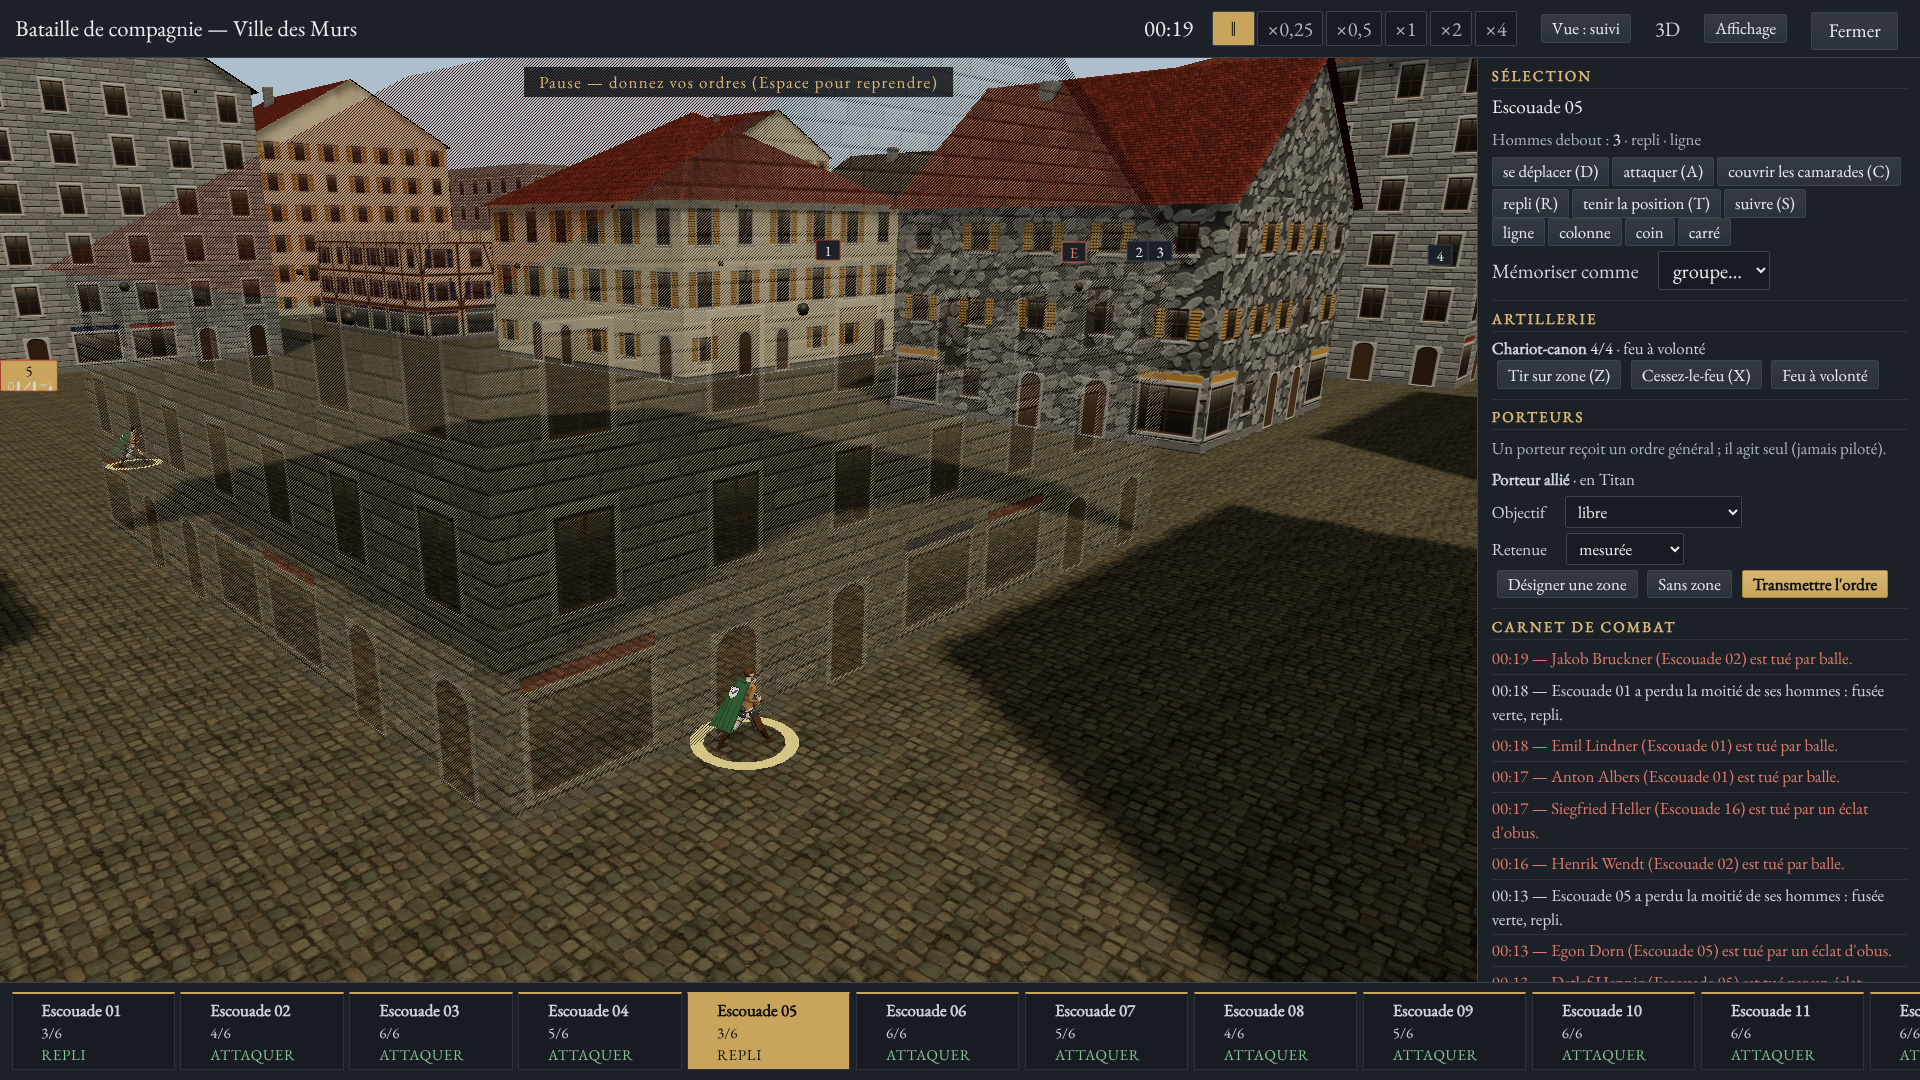
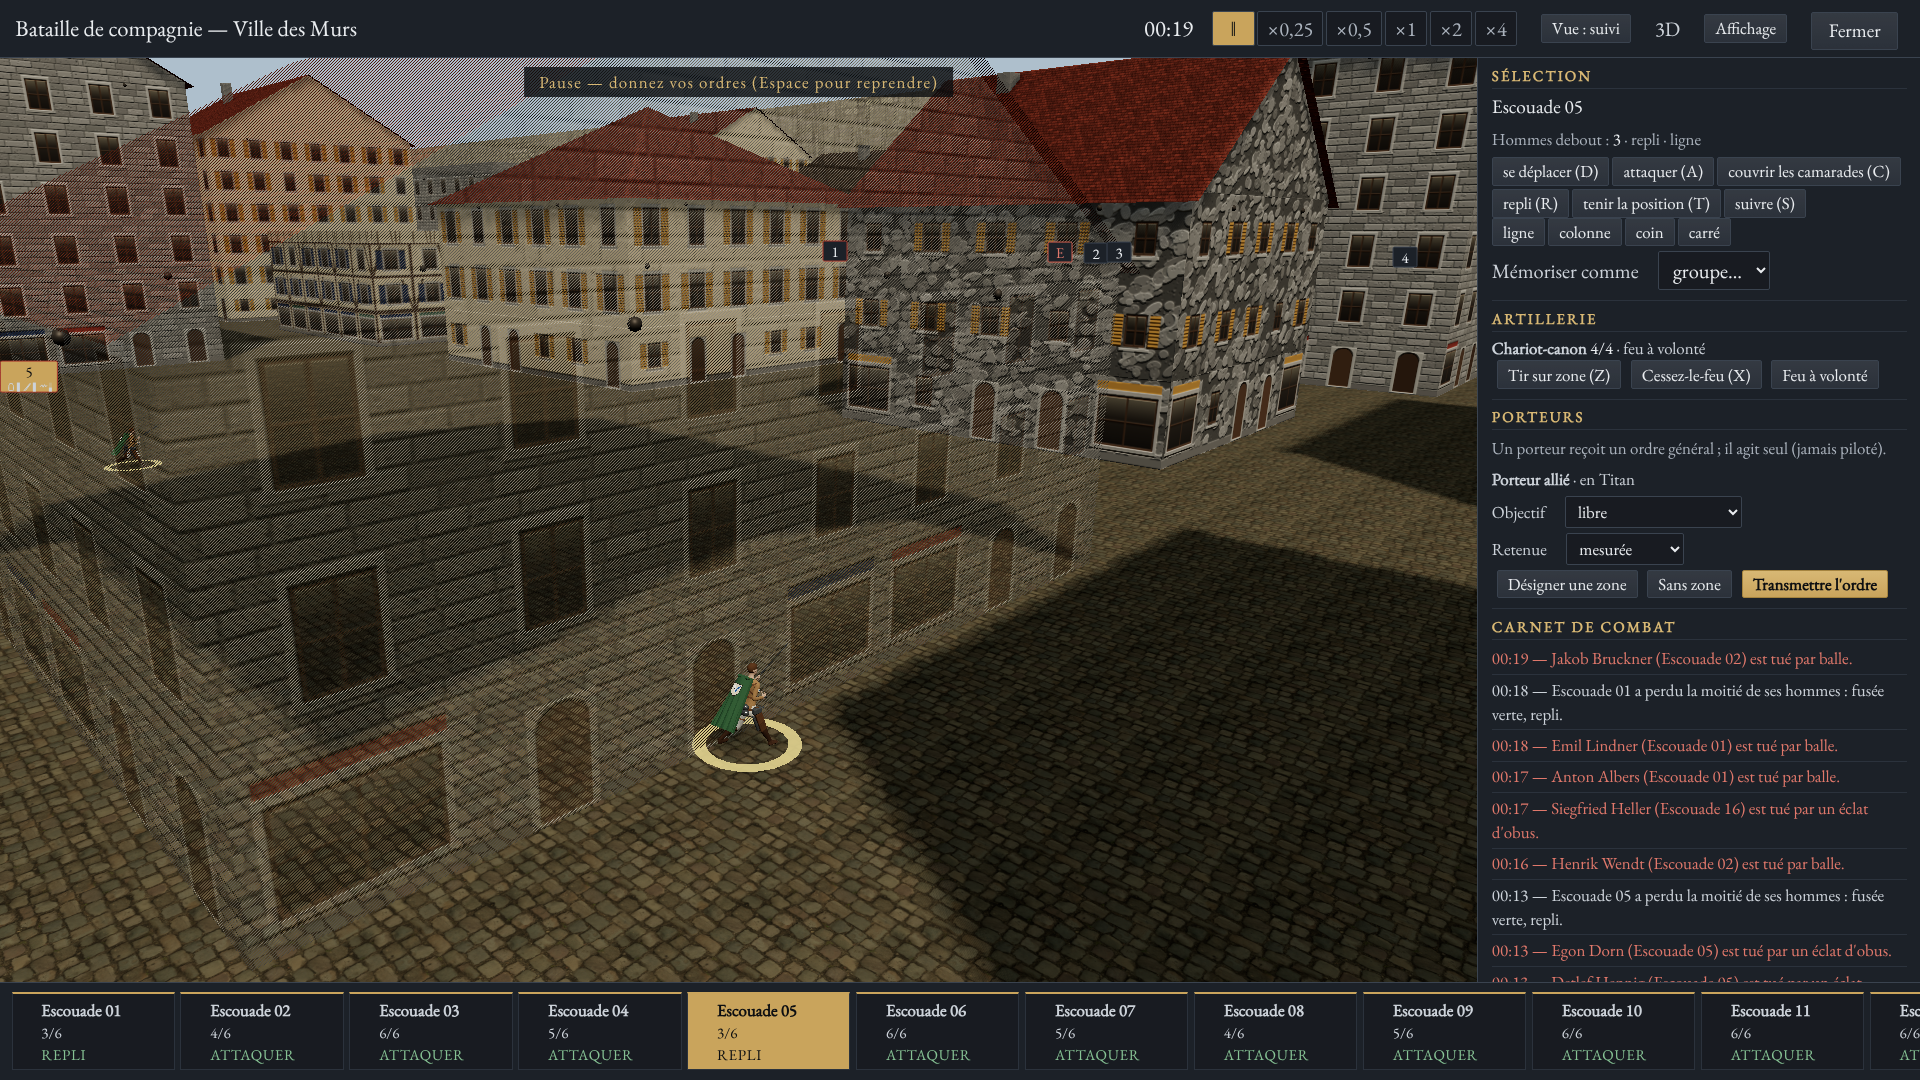
Dette n° 55 (décor) : mur d'enceinte en toile de fond de la ville de bataille (D-168)
- Carte « ville » (profil E02, district adossé au Mur Rose) : pan de mur de 50 m
  au nord, 60 m au-delà du bord de la carte, parement de R1e ; rendu seul.
- Test : hauteur, position hors de la zone de combat, aucune emprise ajoutée ;
  absent en plaine. Captures r2 mises à jour.

npm run verify : code 0 (119 fichiers, 768 tests) ; smoke:r2 conforme.

Claude-Session: https://claude.ai/code/session_01QkVHPRrYAvmotTxhToJVAL

Changed region(s): [[0.0, 0.0306, 0.7812, 0.9167]]

diff --git a/src/render/tactical3d/battle/world.ts b/src/render/tactical3d/battle/world.ts
@@ -9,6 +9,9 @@ import { facadeColor, profile as styleProfile, roofColor } from "../styles";
 import type { RoofMaterial, StyleProfile, WallMaterial } from "../styles";
 import { pickWeighted, roofShape } from "../styling";
 import type { FaceBuilder } from "../townMesh";
+import { straightWall, translatePaths, wallLayout } from "../envWall";
+import { buildWallMeshes } from "../meshWall";
+import type { ParementTextures } from "../parement";
 
 /**
  * Décor de la bataille 3D (R2+), DÉRIVÉ de la carte de la simulation (jamais l'inverse) : chaque structure (bâtiment,
@@ -25,7 +28,13 @@ export interface BattleDecorTextures {
   facade(m: WallMaterial): { upper: Texture; upperLit: Texture; ground: Texture; groundLit: Texture; plain: Texture };
   roof(c: RoofMaterial): Texture;
   normal(t: Texture | null, strength: number): Texture | null;
+  /** Mur de fond : pierre et parement sans motif répété (R1e). */
+  wallStone?(): Texture;
+  parement?(): ParementTextures;
 }
+
+/** Recul du mur de fond derrière le bord nord de la carte (m, A) : hors de la zone de combat. */
+export const BACKDROP_WALL_GAP = 60;
 
 /**
  * Profil de style du décor selon la carte (A) : ville et mur → district planifié du mur Rose (E02) ; plaine → village
@@ -280,6 +289,22 @@ export function buildBattleWorld(m: TacticalWorldMap, seed: number, opts: { grou
       mesh.geometry.setAttribute("batiment", new BufferAttribute(ids, 1));
     }
   }
+  // Dette n° 55 (décor) : mur d'enceinte en toile de fond quand le profil le montre (E02 : district adossé au Mur Rose, 50 m,
+  // C) ; pan droit au nord de la carte, extérieur au nord, hors de la zone de combat : la simulation ne le connaît pas.
+  let backdrop: { dispose(): void } | null = null;
+  if (terrain === "ville" && style.mur_visible.visible) {
+    const layout = wallLayout(translatePaths([straightWall(m.width / 2 + 700, -BACKDROP_WALL_GAP, -1, [])], m.width / 2, 0));
+    const wm = buildWallMeshes(layout, () => 0, tx?.wallStone?.() ?? null, seed, tx?.parement?.() ?? null);
+    const g = new Group();
+    g.name = "mur-de-fond";
+    for (const x of wm.meshes) {
+      x.castShadow = true;
+      x.receiveShadow = true;
+      g.add(x);
+    }
+    group.add(g);
+    backdrop = wm;
+  }
   // Mur (et autres boîtes de maçonnerie) : parement de pierre.
   for (const s of by("mur")) {
     const wall = new Mesh(new BoxGeometry(s.w, s.h, s.d).translate(s.x + s.w / 2, s.h / 2, s.y + s.d / 2), stoneMat);
@@ -352,6 +377,7 @@ export function buildBattleWorld(m: TacticalWorldMap, seed: number, opts: { grou
       return [...caches.value].filter((v) => v > 0).map((v) => v - 1);
     },
     dispose(): void {
+      backdrop?.dispose();
       group.traverse((o) => {
         const g = (o as Mesh).geometry as BufferGeometry | undefined;
         g?.dispose();

diff --git a/tests/render/tactical3d/battle3d.test.ts b/tests/render/tactical3d/battle3d.test.ts
@@ -103,6 +103,25 @@ describe("décor 3D habillé par les profils de style (dette n° 74)", () => {
     w.dispose();
   });
 
+  it("ville (E02, district adossé au mur) : mur de 50 m en toile de fond, au nord, hors de la zone de combat ; pas en plaine", () => {
+    const b = battleOn("tmap_ville");
+    const w = buildBattleWorld(b.map, 11);
+    const wall = partsNamed(w, "mur-de-fond")[0];
+    expect(wall).toBeDefined();
+    const bb = objectBox(wall as NonNullable<typeof wall>);
+    expect(bb.h).toBeGreaterThanOrEqual(50);
+    expect(bb.h).toBeLessThan(54);
+    expect(bb.y1).toBeLessThan(0);
+    expect(bb.x0).toBeLessThan(0);
+    expect(bb.x1).toBeGreaterThan(b.map.width);
+    // La simulation ne le connaît pas : une emprise par structure de la carte, rien de plus.
+    expect(w.footprints.length).toBe(b.map.structures.length);
+    w.dispose();
+    const p = buildBattleWorld(battleOn("tmap_plaine").map, 11);
+    expect(partsNamed(p, "mur-de-fond")).toHaveLength(0);
+    p.dispose();
+  });
+
   it("profils par carte : plaine → village agricole, forêt → bois (ou repli), mur → district", () => {
     expect(buildBattleWorld(battleOn("tmap_mur").map, 11).profile.id).toBe("E02");
     expect(["E11", "E02"]).toContain(buildBattleWorld(battleOn("tmap_plaine").map, 11).profile.id);

diff --git a/src/render/tactical3d/battle/view3d.ts b/src/render/tactical3d/battle/view3d.ts
@@ -43,7 +43,8 @@ import type { Titan, TitanPose } from "../titan";
 import { PHOTO_MATIERES, photoUrl } from "../photoTextures";
 import { battleProfile, buildBattleWorld, occludersFor } from "./world";
 import type { BattleDecorTextures, BattleWorld } from "./world";
-import { facadeSet, normalOf, roofTex } from "../texturesEnv";
+import { facadeSet, normalOf, roofTex, wallStoneTex } from "../texturesEnv";
+import { parementTextures } from "../parement";
 import type { RoofMaterial, WallMaterial } from "../styles";
 import { LOD, SIDE_COLORS, UNIFORM_COLORS, cannonGeometry, markerGeometry, tierOf, troopGeometry } from "./units";
 import { FigureDirector, SOLDIER_POSE, TITAN_POSE, TROOP_POSE } from "./figureState";
@@ -271,6 +272,12 @@ export class View3D implements BattleView {
         if (this.opts.quality === "bas") return null;
         const n = normalOf(t, k);
         return n ? keep(n) : null;
+      },
+      wallStone: () => keep(wallStoneTex(this.seed)),
+      parement: () => {
+        const p = parementTextures(this.seed);
+        for (const t of [p.A, p.B, p.C]) keep(t);
+        return p;
       },
     };
     this.world = buildBattleWorld(m, this.seed, { profile: style, textures, night: this.night });

diff --git a/docs/reports/dette.md b/docs/reports/dette.md
@@ -64,7 +64,7 @@ Format : **quoi** — où — gravité (faible / moyenne / forte). Tag `LC-repor
 | 52 | R2+ : la bataille du smoke dépend du rythme des images (les ordres partent au pas où l'interface les donne ; le rejeu par journal reste exact) : issue variable d'un passage à l'autre. `smoke:r2` : le tir sur zone visait un Titan précis, KO aux essais 3 et 5 (Titan hors de l'écran ou abattu) ; contrôle corrigé (Titan ennemi debout, sinon le sol au centre de la vue) | `src/tools/smoke-r2.ts` | faible | R2+ |
 | 53 | R2+ : la simulation tactique (P4) ne fait pas buter les hommes à pied, les fantassins ni les Titans contre les bâtiments (seuls les atterrissages lisent `groundAt`) : en 3D, des hommes disparaissent dans les maisons. La caméra de suivi préfère un homme visible. Corriger le déplacement change les empreintes des batailles existantes (décision à prendre, avec ancienne et nouvelle valeur). **Corrigé en temps réel (D-146)** : marche et places hors des bâtiments, pas de tir à travers ; les batailles P4 restent telles quelles (empreintes inchangées) ; reste la dette n° 60 | `src/sim/tactical/battle.ts`, `troops.ts`, `map.ts` | moyenne | R2+ (en partie corrigée, D-146) |
 | 54 | R2+ (revue) : les Titans de la bataille de compagnie sont déployés au contact des sections ennemies : déroutes dès 00:05 (`r2-suivi-1920`) | `src/sim/tactical/setup.ts`, `src/sim/tactical/battle.ts` (déploiement) | faible | R2+ |
-| 55 | R2+ (revue) : le carnet nomme le lieu d'après la carte tactique (« Plaine hors-murs ») même pour une bataille à l'intérieur des murs, sans mur ni pièce de rempart (`pa-artillerie-rempart`) ; au bilan, le camp des obus n'est pas donné (pertes par l'artillerie des deux camps confondues) | `src/ui/tactical/rtBattleScreen.ts`, `src/ui/tactical/summary.ts`, `src/sim/armies/` | faible | R2+ |
+| 55 | R2+ (revue) : le carnet nomme le lieu d'après la carte tactique (« Plaine hors-murs ») même pour une bataille à l'intérieur des murs, sans mur ni pièce de rempart (`pa-artillerie-rempart`) ; au bilan, le camp des obus n'est pas donné (pertes par l'artillerie des deux camps confondues) | `src/ui/tactical/rtBattleScreen.ts`, `src/ui/tactical/summary.ts`, `src/sim/armies/` | faible | R2+ ; mur en toile de fond de la ville **ajouté** (D-168) ; restent le nom du lieu et le camp des obus |
 | 56 | R2+ (revue) : la bande de pastilles d'escouades est coupée après 10 escouades (pas de défilement ni de seconde ligne) | `src/ui/tactical/rtBattleScreen.ts`, `src/styles/` | faible | R2+ |
 | 57 | R2+ (revue) : en vue stratégique, 40 à 50 % de l'image montre du sol vide (cadrage sur toute la carte, pas sur les unités) | `src/render/tactical3d/battle/view3d.ts` (`frame`) | faible | R2+ |
 | 58 | R2+ (revue) : en repli 2D, le message « WebGL 2 indisponible » recouvre des unités (bandeau posé sur la vue) | `src/ui/tactical/rtBattleScreen.ts`, `src/styles/` | faible | R2+ |

diff --git a/docs/DECISIONS.md b/docs/DECISIONS.md
@@ -4,7 +4,7 @@
 
 ## Index
 
-167 décisions, de D-01 (2026-10-02) à D-167 (2026-10-10). Une ligne par décision, dans l'ordre du journal.
+168 décisions, de D-01 (2026-10-02) à D-168 (2026-10-10). Une ligne par décision, dans l'ordre du journal.
 
 - **D-01** (10-02) — Format des identifiants d'événements
 - **D-02** (10-02) — Identifiants de provinces
@@ -173,6 +173,7 @@
 - **D-165** (10-10) — Dette n° 72 : uniformes des soldats selon l'œuvre, critère de silhouette par famille
 - **D-166** (10-10) — Dette n° 74 : décor de la bataille habillé par les profils de style
 - **D-167** (10-10) — Dette n° 75 : bâtiments translucides devant les unités choisies, jauges au-dessus des escouades
+- **D-168** (10-10) — Dette n° 55 (décor) : mur d'enceinte en toile de fond de la ville de bataille
 
 ## 2026-10-02 — D-01 Format des identifiants d'événements
 - Contexte : formats concurrents (`evt_trost_breach_845` en 05, `evt_850_police_tech_seized` en 13/14, `E37` en 12).
@@ -1639,4 +1640,13 @@ L'auto-résolution n'a **pas** été dérivée ni calibrée à partir des batail
     les escouades choisies, seulement celles en alerte pour les autres (vingt escouades côte à côte se chevauchaient sinon :
     première capture de `smoke:r2`). Le DOM n'est retouché que quand un niveau change d'un dixième.
 - **Réversible** : oui (`battle/world.ts`, `battle/view3d.ts`, `rtBattleScreen.ts`, `screen.css`).
+
+## 2026-10-10 — D-168 Dette n° 55 (décor) : mur d'enceinte en toile de fond de la ville de bataille
+- **Constat** : la « Ville des Murs » de la bataille n'avait aucun mur, alors que son profil de style (E02, district adossé
+  au Mur Rose) déclare le mur visible (`mur_visible.visible`, `?`).
+- **Décision** : pour la carte « ville », un pan de mur droit (hauteur 50 m, C ; épaisseur, teinte et parement de
+  `data/art/murs.json`, `?`) est rendu au nord, 60 m au-delà du bord de la carte (A), extérieur au nord, avec le parement sans
+  motif répété de R1e. Rendu seul : la simulation ne le connaît pas (une emprise par structure de la carte, test).
+- **Reste** (dette n° 55) : nom du lieu au carnet d'après la carte tactique ; camp des obus au bilan.
+- **Réversible** : oui (`battle/world.ts`).
 

diff --git a/docs/PROGRESS.md b/docs/PROGRESS.md
@@ -3,9 +3,9 @@
 | Champ | Valeur |
 |---|---|
 | Phase | **PACK terminée** (application Windows Electron : `npm run package:win`, `smoke:pack` ; D-164). Feuille de route V2 achevée (N1 à N3). Suite : dette n° 72 (tenues des soldats, demande de l'utilisateur) et contrôle de conformité de la 3D, puis dettes. |
-| Tâche | Dettes n° 74 (décor de la bataille, D-166) et n° 75 (translucidité, jauges, D-167) corrigées ; dettes suivantes |
-| Dernier `npm run verify` | 2026-10-10 : code 0 ; 119 fichiers, 767 tests (`docs/reports/dette75-verify.log`) |
-| Prochaine étape | PROCHAINE ACTION EXACTE : dettes de la 3D par gravité (n° 55 mur autour de la ville de bataille, n° 60 Titans à travers les bâtiments, n° 63 visages), puis autres dettes, sur `claude/intelligent-feynman-8ekib4` (mandat autonome jusqu'au 2026-10-12 19:33 UTC, D-148). À faire par Gabriel : `npm run package:win` sur Windows (`docs/LANCER_SUR_WINDOWS.md`) ; mesures GPU (dettes n° 49, 64, 71, 73) |
+| Tâche | Dettes n° 74 (décor, D-166), n° 75 (translucidité, jauges, D-167) et n° 55 (mur de fond, D-168) corrigées ; dettes suivantes |
+| Dernier `npm run verify` | 2026-10-10 : code 0 ; 119 fichiers, 768 tests (`docs/reports/dette55-verify.log`) |
+| Prochaine étape | PROCHAINE ACTION EXACTE : dettes restantes par gravité (hors `src/sim`, figé depuis R2), puis résumé final des 3 jours le 2026-10-12 vers 19:35 UTC, sur `claude/intelligent-feynman-8ekib4` (mandat autonome jusqu'au 2026-10-12 19:33 UTC, D-148). À faire par Gabriel : `npm run package:win` sur Windows (`docs/LANCER_SUR_WINDOWS.md`) ; mesures GPU (dettes n° 49, 64, 71, 73) |
 
 ## Mandat autonome de trois jours (2026-10-09 → 2026-10-12, D-148)
 - Consigne de l'utilisateur : continuer sans intervention, d'après les documents et ses décisions ; reprise automatique au
